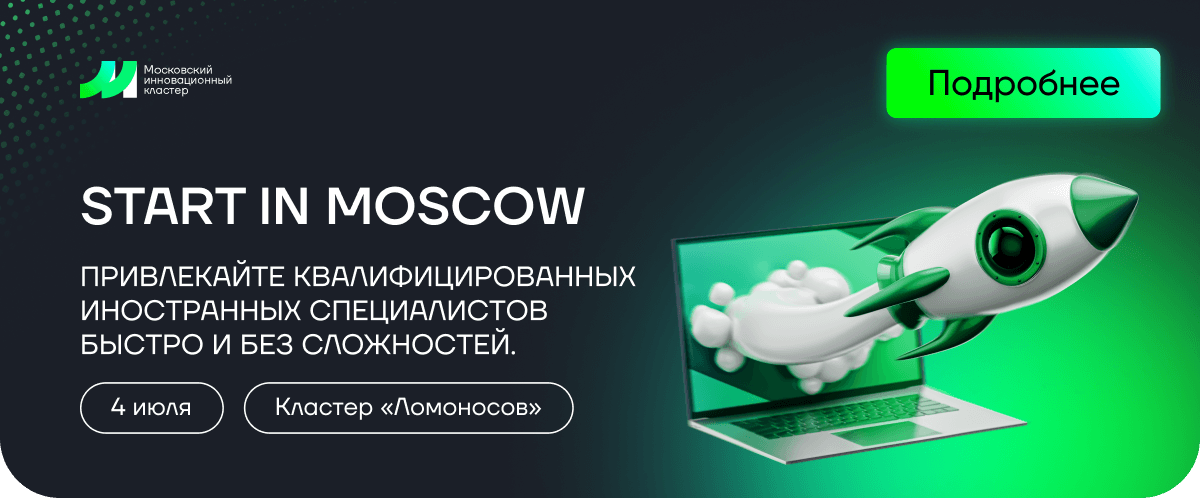
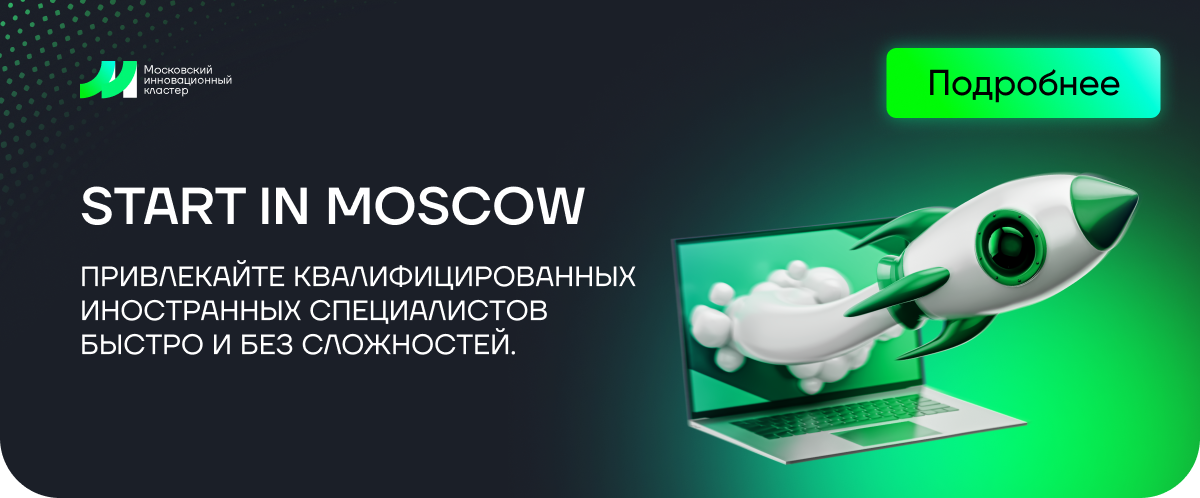
add mik-254

Changed region(s): [[0.185, 0.753, 0.4625, 0.8735], [0.0617, 0.753, 0.185, 0.8735]]

diff --git a/mik-254/Start in Moscow.html b/mik-254/Start in Moscow.html
@@ -103,7 +103,7 @@
                                         <tr>
                                             <td style="width:600px;">
                                                 <a href="https://startin.moscow/" target="_blank">
-                                                    <img alt="Start in Moscow. Привлекайте квалифицированных иностранных специалистов быстро и без сложностей. 4 июля. Кластер «Ломоносов». Нажмите здесь, чтобы узнать подробнее." height="auto" src="https://cp.unisender.com/ru/user_file?resource=images&user_id=5608985&name=mik-254-hero.png" style="border:0;display:block;outline:none;text-decoration:none;height:auto;width:100%;font-size:13px;" width="600" />
+                                                    <img alt="Start in Moscow. Привлекайте квалифицированных иностранных специалистов быстро и без сложностей. Нажмите здесь, чтобы узнать подробнее." height="auto" src="https://cp.unisender.com/ru/user_file?resource=images&user_id=5608985&name=mik-254-hero.png" style="border:0;display:block;outline:none;text-decoration:none;height:auto;width:100%;font-size:13px;" width="600" />
                                                 </a>
                                             </td>
                                         </tr>
